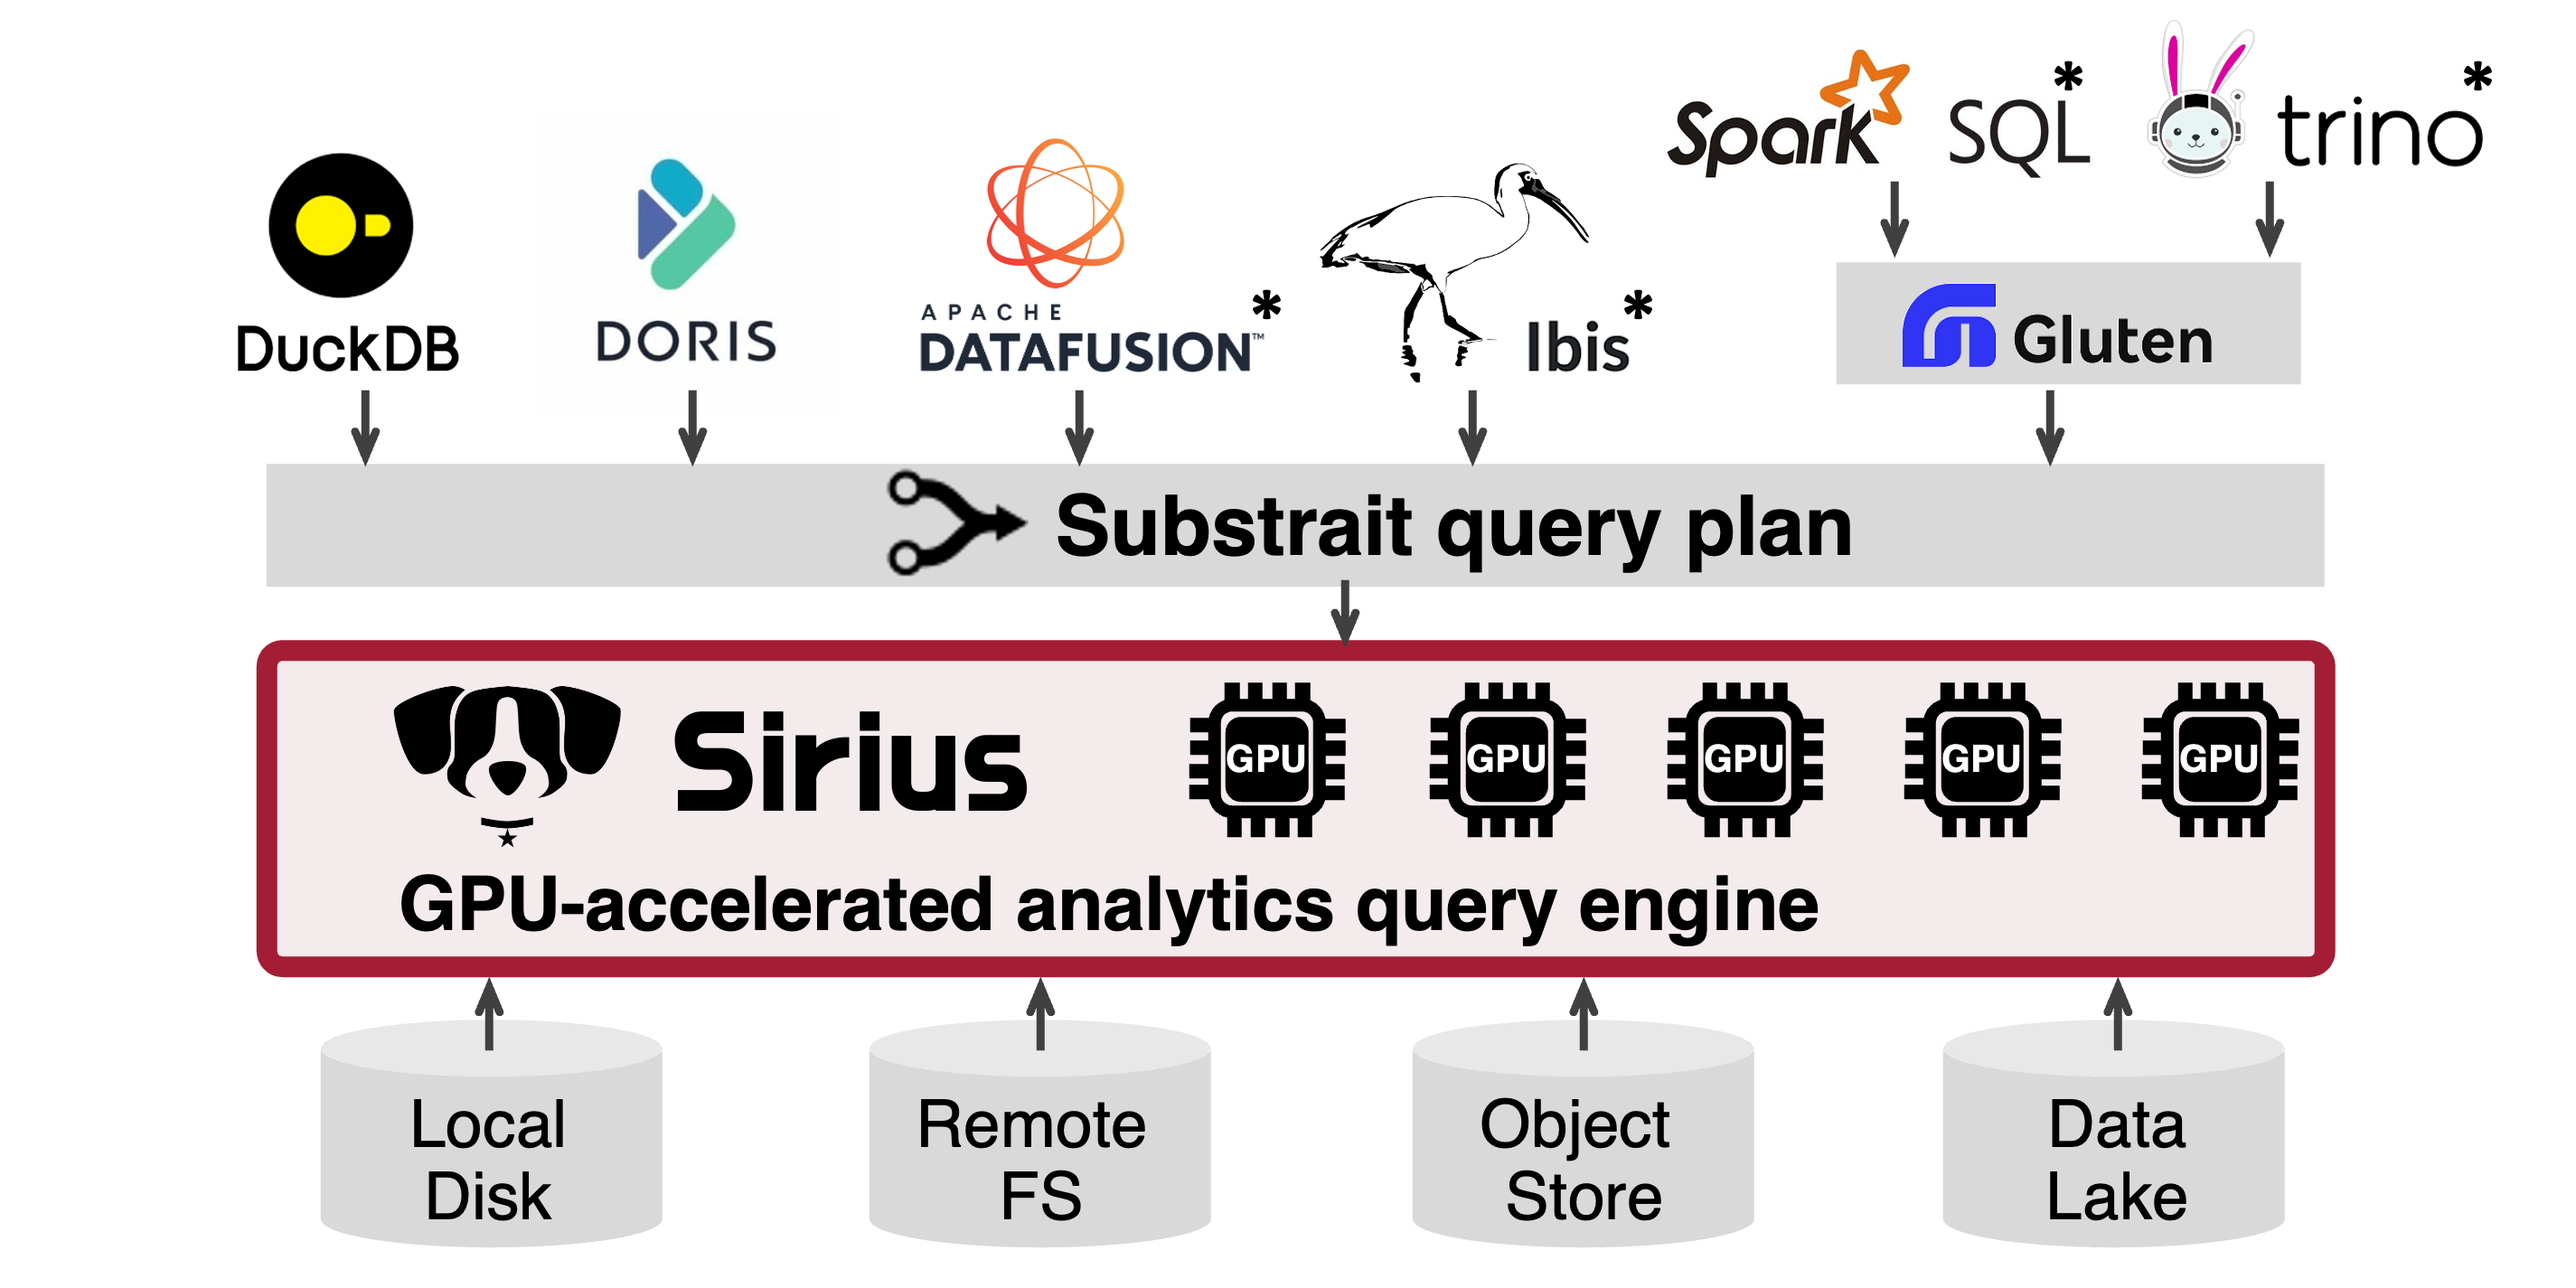
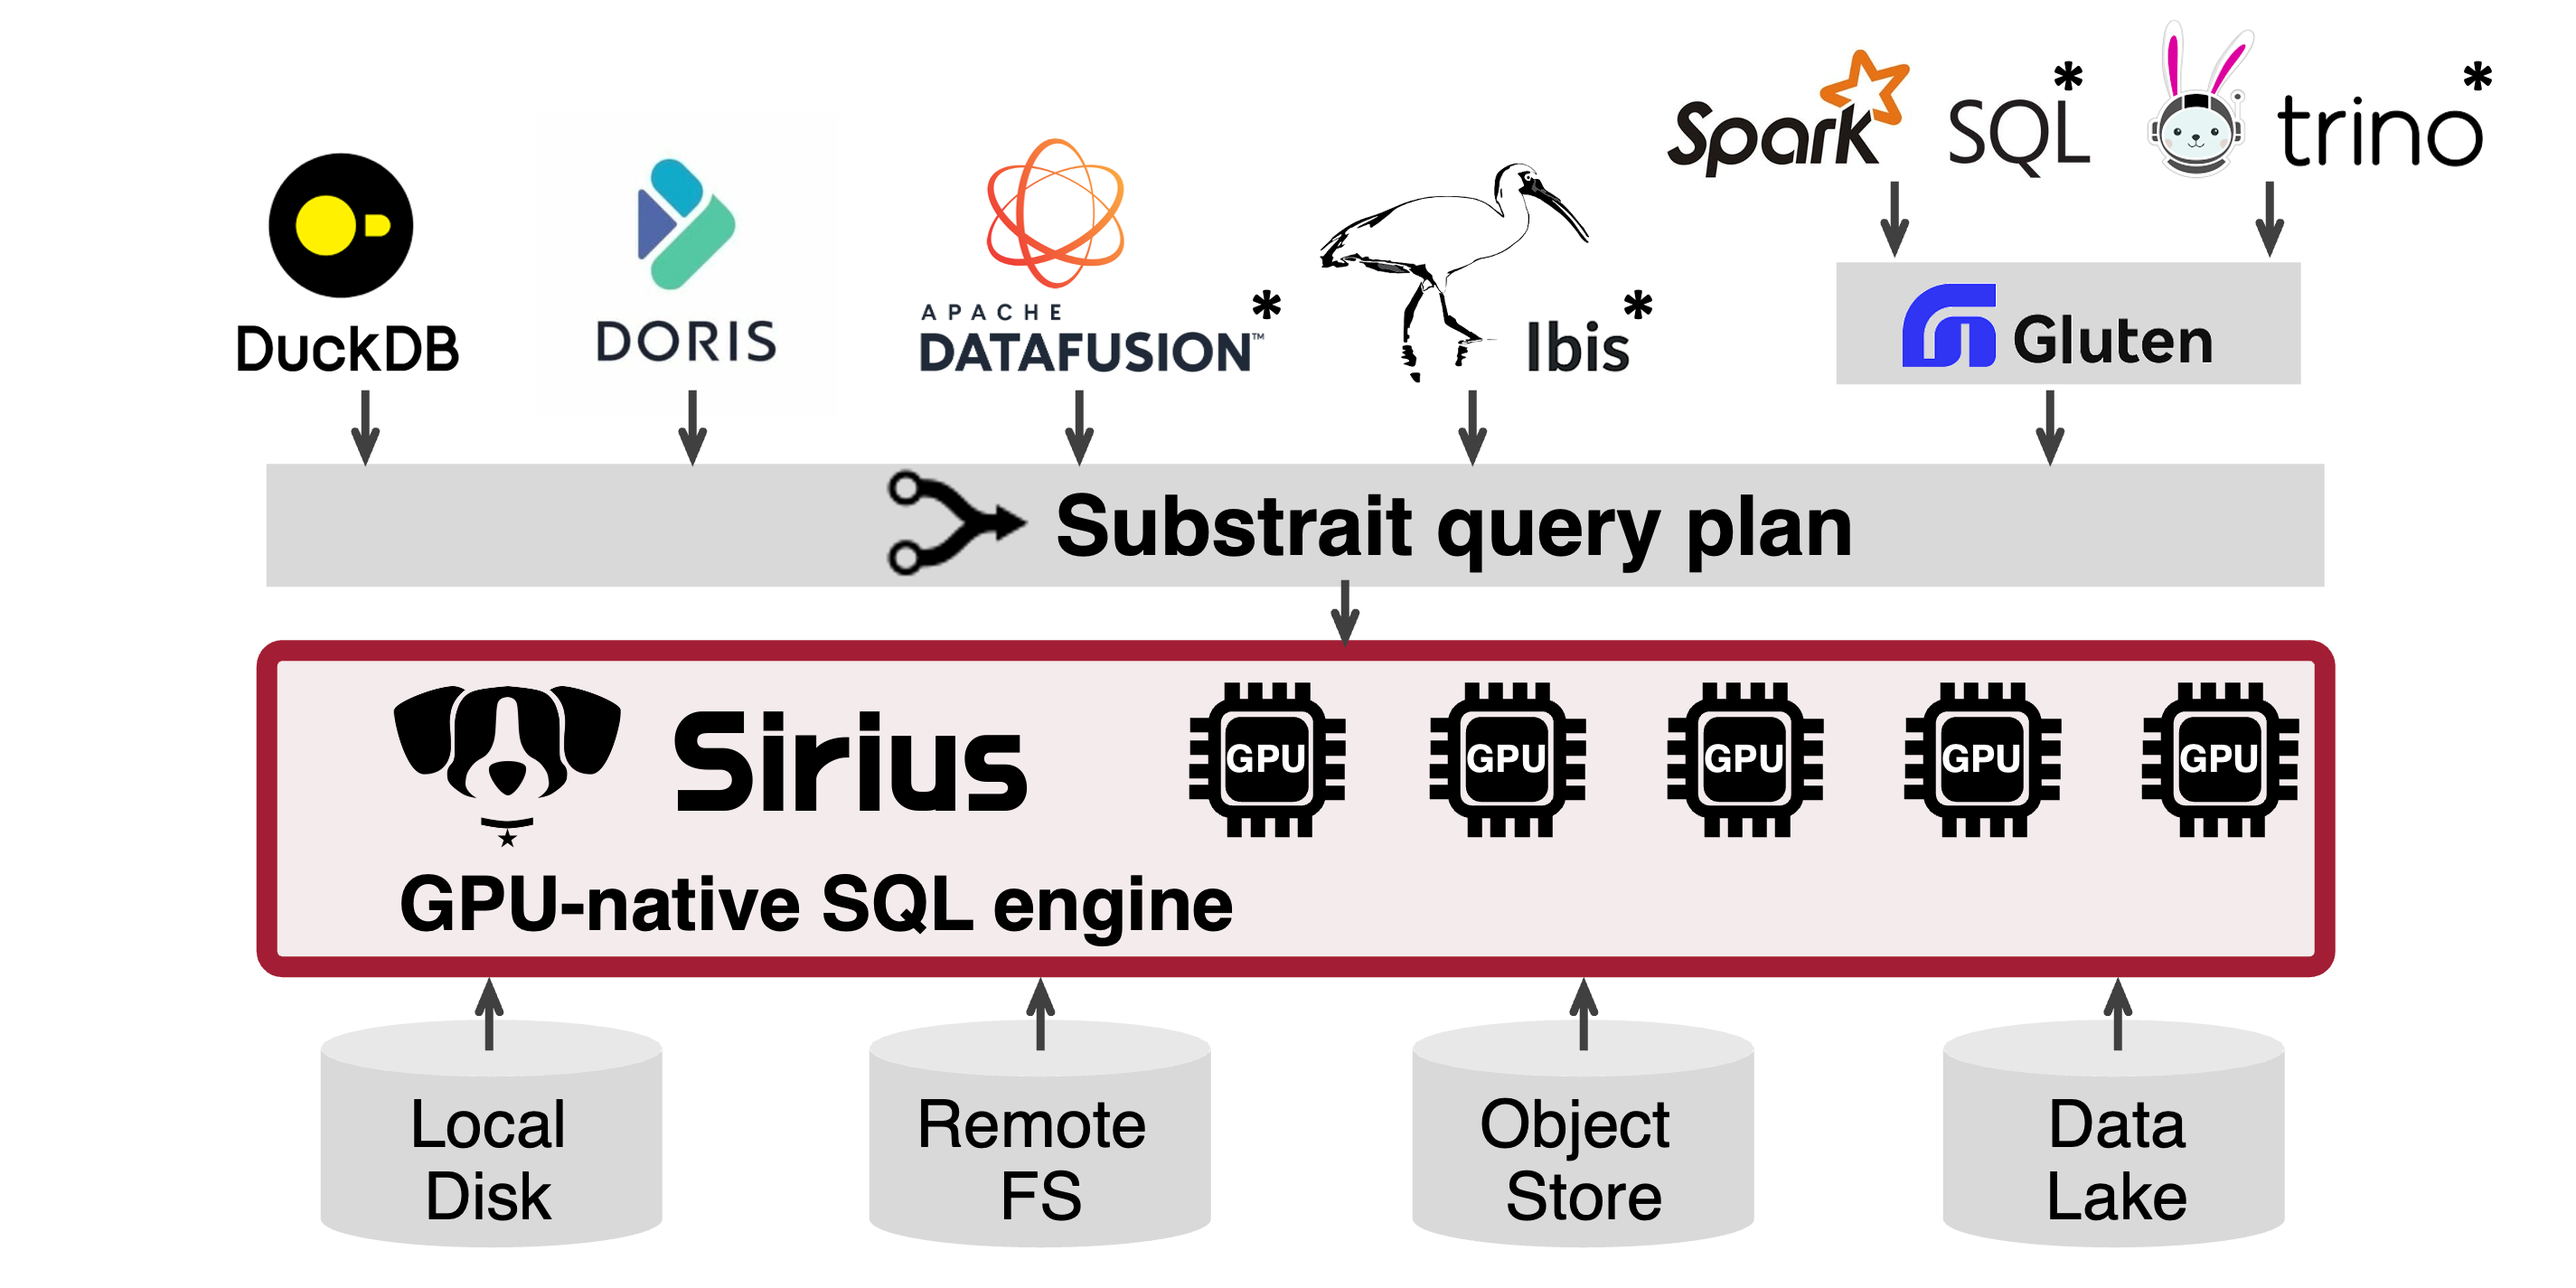
README

Changed region(s): [[0.2186, 0.6793, 0.7182, 0.7411]]

diff --git a/docs/README.md b/docs/README.md
@@ -3,7 +3,7 @@
   <img src="sirius-full.png" alt="Diagram" width="500"/>
 </p>
 
-Sirius is a GPU SQL engine. It plugs into existing databases such as DuckDB via the standard Substrait query format, requiring no query rewrites or major system changes. Sirius currently supports DuckDB and Doris (coming soon), other systems marked with * are on our roadmap.
+Sirius is a GPU-native SQL engine. It plugs into existing databases such as DuckDB via the standard Substrait query format, requiring no query rewrites or major system changes. Sirius currently supports DuckDB and Doris (coming soon), other systems marked with * are on our roadmap.
 
 <!-- ![Architecture](sirius-architecture.png) -->
 <p align="center">
